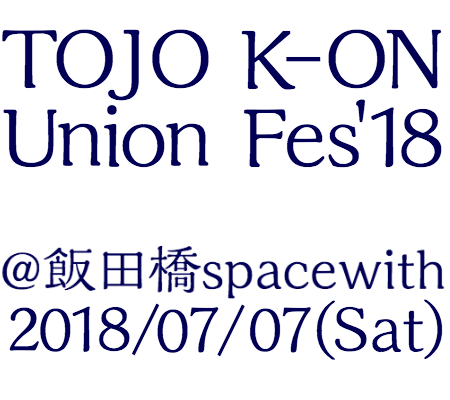
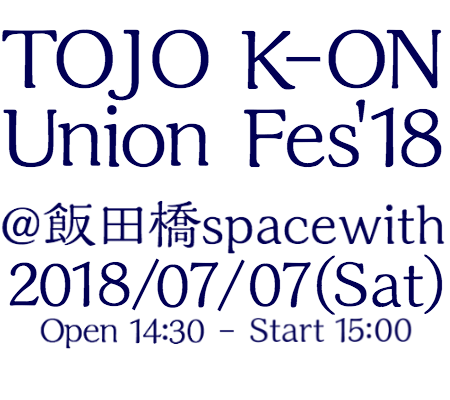
band,open/start追加

Changed region(s): [[0.0, 0.48, 0.9956, 0.9]]

diff --git a/source/stylesheets/2018/main.css.scss b/source/stylesheets/2018/main.css.scss
@@ -49,23 +49,23 @@ a.external::after {
       padding: 5px;
       text-decoration: none;
       text-align: center;
-      background: rgba(0, 0, 85, 0.2);
+      background: rgba(255, 255, 255, 0.65);
       color: #000055;
       -webkit-border-radius: 5px;
       border-radius: 5px;
 
       &:hover {
-        background: rgba(0, 0, 85, 0.5);
+        background: rgba(255, 255, 255, 0.75);
       }
     }
   }
 
   li.active {
     a {
-      background: rgba(0, 0, 85, 0.4);
+      background: rgba(255, 255, 255, 0.85);
 
       &:hover {
-        background: rgba(0, 0, 85, 0.7);
+        background: rgba(255, 255, 255, 0.9);
       }
     }
   }
@@ -119,7 +119,7 @@ div#title-section {
     }
   }
 }
-/*
+
 div.band {
   width: 100%;
 
@@ -128,7 +128,7 @@ div.band {
   }
 }
 
-//div#band9-section {
+/*div#band9-section {
 div.band {
   text-shadow: 0 -1px 10px #000, 1px 0 10px #000, 0 1px 10px #000, -1px 0 10px #000;
 
@@ -156,20 +156,17 @@ div.band {
       }
     }
   }
-}
+}*/
 
 div#band1-section {
-  @include background('band-1.png');
+  @include background-b('band-1.png');
 
   .band-container {
-    .band-name {
-      font-family: 'IM Fell Great Primer SC', serif;
-    }
   }
 }
 
 div#band2-section {
-  @include background('band-2.png');
+  @include background-b('band-2.jpg');
   background-position: top center;
   color: #FFF;
 
@@ -181,7 +178,7 @@ div#band2-section {
 }
 
 div#band3-section {
-  @include background('band-3.png');
+  @include background-b('band-3.jpg');
   .band-name{
     display:none;
   }
@@ -191,7 +188,7 @@ div#band3-section {
 }
 
 div#band4-section {
-  @include background('band-4.png');
+  @include background-b('band-4.jpg');
   //text-shadow: 0 -1px 10px #ddd, 1px 0 10px #ddd, 0 1px 10px #ddd, -1px 0 10px #ddd;
 
   .band-container {
@@ -203,7 +200,7 @@ div#band4-section {
 }
 
 div#band5-section {
-  @include background('band-5.png');
+  @include background-b('band-5.png');
 
   .band-container {
     .band-name {
@@ -216,7 +213,7 @@ div#band5-section {
 }
 
 div#band6-section {
-  @include background('band-6.png');
+  @include background-b('band-6.jpg');
   background-position: top center;
 
   .band-container {
@@ -232,7 +229,7 @@ div#band6-section {
 
 
 div#band7-section {
-  @include background('band-7.png');
+  @include background-b('band-7.jpg');
 
   .band-container {
     padding-top: 70%;
@@ -244,9 +241,10 @@ div#band7-section {
 }
 
 div#band8-section {
-  @include background('band-8.png');
+  @include background-b('band-8.jpg');
 }
 
+/*
 div#band9-section {
   @include background('band-9.png');
   .band-container {

diff --git a/source/stylesheets/2018/_mixin.css.scss b/source/stylesheets/2018/_mixin.css.scss
@@ -4,7 +4,18 @@
 
     position: center center;
     repeat: no-repeat;
+	 color: black;
     size: cover;
+  }
+}
+@mixin background-b($file) {
+  background: {
+    image: url('../../images/2018/' + $file);
+
+    position: center center;
+    repeat: no-repeat;
+	 color: black;
+    size: contain;
   }
 }
 
